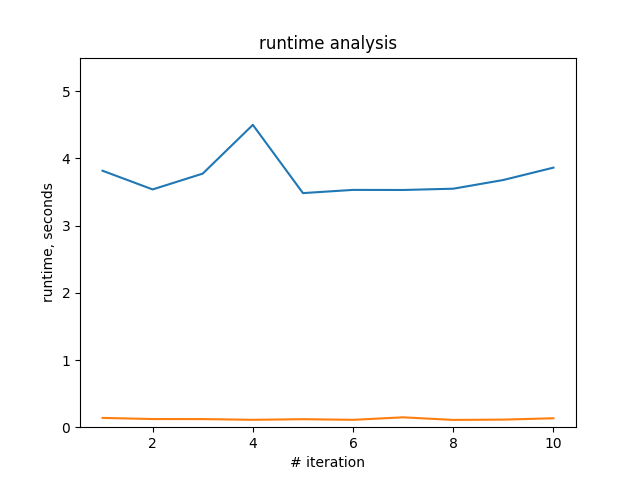
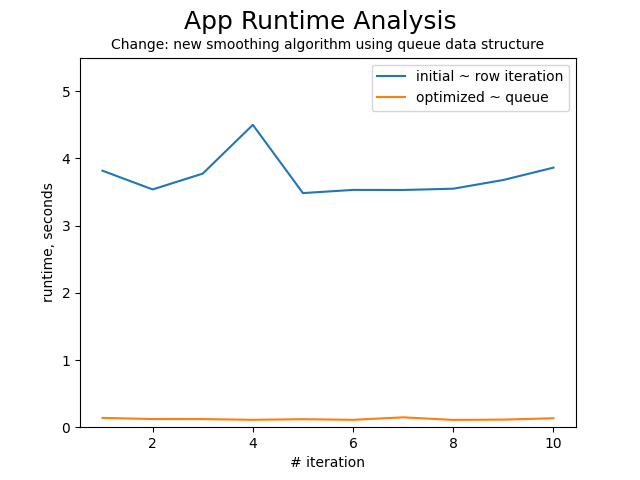
runtime analysis completed

Changed region(s): [[0.1875, 0.0, 0.875, 0.2188]]

diff --git a/runtime_analysis.py b/runtime_analysis.py
@@ -33,6 +33,10 @@ plt.plot(iterations, og_times, iterations, new_times)
 plt.ylim((0, 5.5))
 plt.xlabel('# iteration')
 plt.ylabel('runtime, seconds')
-plt.title('runtime analysis')
+plt.suptitle('App Runtime Analysis', fontsize=18)
+plt.title('Change: new smoothing algorithm using queue data structure', fontsize=10)
+plt.legend(['initial ~ row iteration', 'optimized ~ queue'])
 
 plt.savefig("runtime_analysis.png")
+
+
